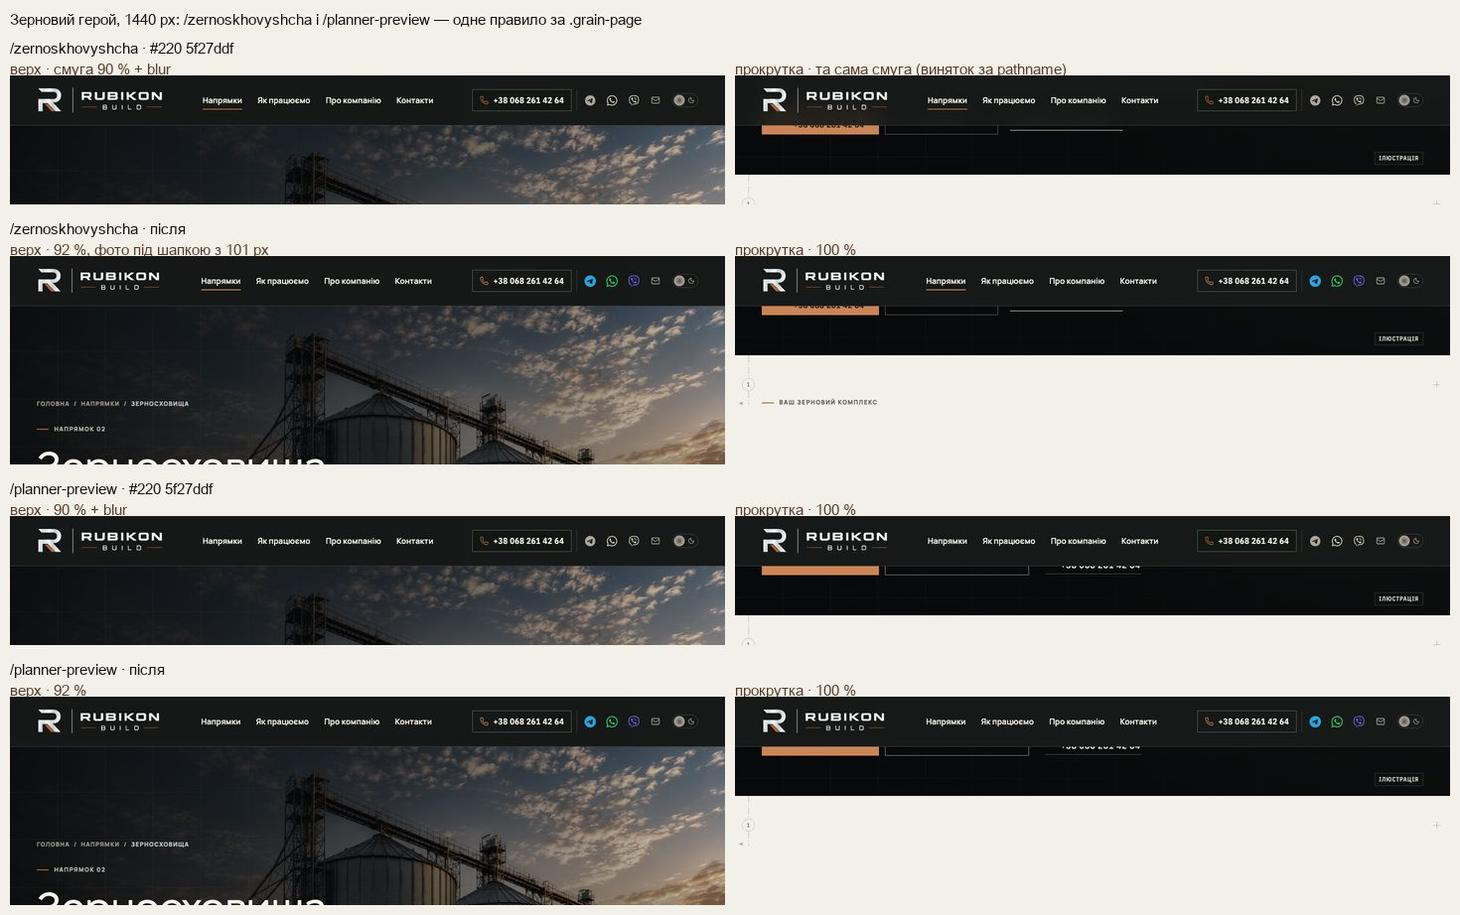
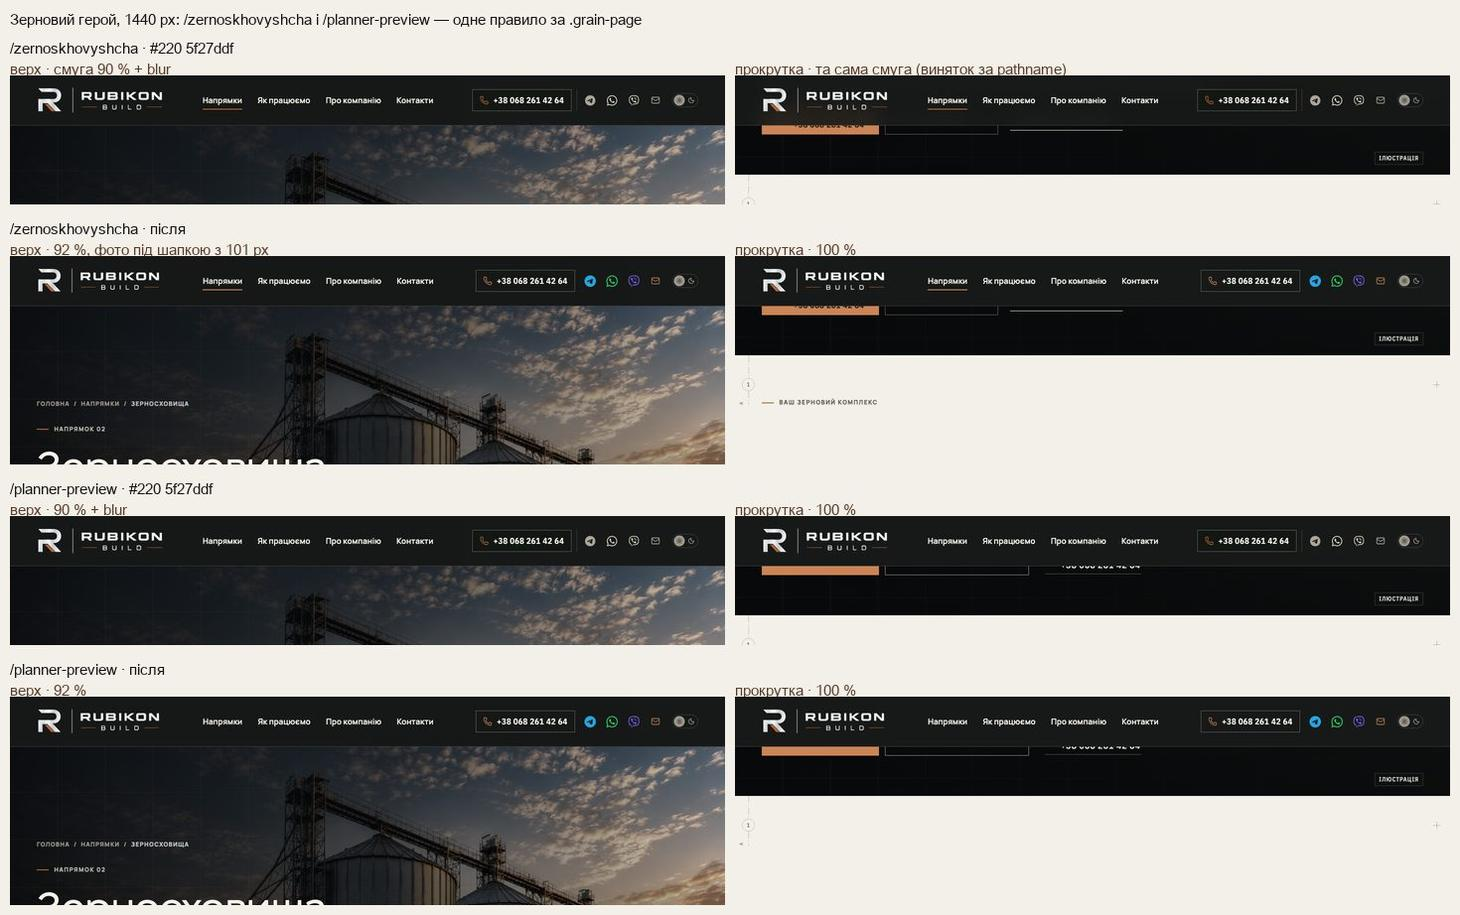
docs(handoffs): шапка — без лінії, мідна пошта, оновлені кадри, факт Main visual

diff --git a/docs/handoffs/2026-10-21-header-balanced.md b/docs/handoffs/2026-10-21-header-balanced.md
@@ -8,7 +8,7 @@
 | Рев'ю | Власник — за спільним прев’ю й кадрами нижче. Незалежне — ChatGPT через GitHub |
 | PR | #220. **Merge, production deploy і нові еталони не виконувались. Вони — лише з окремого OK Дмитра** (DEC-30, DEC-18). Гілка — прототип `design/*` без `visual-freeze`, тож візуальні набори в PR Gate відкладені |
 | Гілка / base | `design/header-first-screen` від `main` `5085ad0` |
-| Коміти | W1-09 (20.10): `7e51bd1` PDO-19 · `6b19846` PDO-57 · `c625a11` PDO-18 · `71e4e5d` PDO-17 · `f0b4729` handoff · `5f27ddf` Sonar S4666. **21.10: `6e693a2` «Збалансована» · `98eb0e9` логотип за ярусами · `b5a63a2` арт героя без смуги** · цей handoff |
+| Коміти | W1-09 (20.10): `7e51bd1` PDO-19 · `6b19846` PDO-57 · `c625a11` PDO-18 · `71e4e5d` PDO-17 · `f0b4729` handoff · `5f27ddf` Sonar S4666. **21.10: `6e693a2` «Збалансована» · `98eb0e9` логотип за ярусами · `b5a63a2` арт героя без смуги · `05d4cb5` без лінії між номером і месенджерами, мідна пошта** · цей handoff |
 | Спільне прев’ю | `preview/wave01e-b-header` = main `5085ad0` + #219 + ця гілка: https://preview-wave01e-b-header-rubikon-build.leusd100.workers.dev/ (Workers Builds, не production) |
 | Змінено 21.10 | `app/globals.css`, `app/home-v2.css`, `app/pro-nas/about.css`, `app/components/HeroHeaderState.tsx`, `app/components/DirectionHeroImage.tsx`, `app/data/directionHeroImageManifest.ts`. Тести: `header-hierarchy.spec.ts`, `header-first-screen.spec.ts`, `header-current-section.spec.ts` |
 | Збережено з W1-09 | PDO-57: `aria-current`, «Напрямки» як розділ на сторінках напрямів. PDO-18: одна модель шапки, фото з y 0. PDO-17: світла мідь головних дій і X-Ray на графіті. Компактна шапка до 1179 px. Навігація Manrope 600. Номер — Plex Condensed 600 |
@@ -22,7 +22,8 @@
 - **Тло над героєм — 92 % `--color-dark` без blur** на кожній ширині й сторінці з героєм: HOME, `/pro-nas`, внутрішні герої від 1100 px, телефони й планшети. Раніше: 72 % (≥761 px) і 82 % (телефони). **Після 32 px прокрутки — 100 %** на всіх ширинах (на телефонах раніше 97 %). Меню відкрите — 97 %. У світлій темі `--color-dark` = #171918, у темній — токен теми #121413.
 - **Номер** — у рамці rgba(245,242,235,.34), світлий текст (Plex Condensed 600, 17 px; 15 px на 1180–1279), мідна піктограма #CC8455. **Без мідної заливки** і в спокої, і на hover / фокусі: тоді мідною стає лише рамка. Заповнена мідь лишається за дзвінком героя.
 - **Месенджери** — оригінальні SVG Telegram / WhatsApp / Viber **без grayscale, saturate і opacity**: у шапці, меню й footer. Іконки 23 px у шапці (21 px на 1180–1279), цілі 44 × 44 (36 / 40 px на вужчих ярусах, як було). `aria-label`, `href` і поведінка Viber не змінені. **Латку під каналами прибрано**: тло для них — сама шапка 92 %.
-- **Email** — сіра іконка #BDB7AC, мідна на hover / фокусі. **Перемикач теми** — тихий трек, сірий кноб (як у W1-09).
+- **Між номером і Telegram лінії немає** (власник 21.10, `05d4cb5`), лишився проміжок 8 px.
+- **Email** — мідна іконка, як до PDO-19 (власник 21.10). Відтінок той самий, що в іконки номера (#CC8455), на hover / фокусі — #DDA27A. **Перемикач теми** — тихий трек, сірий кноб (як у W1-09).
 - **Риска поточного розділу** — світла мідь **#CC8455** (`--color-accent-on-dark`) замість #B76432. `aria-current` не змінено.
 - **Логотип:** 226 px до 1279 px, **250 px від 1280 px**. На 1181 px 250 px лишали 36 px до навігації й 32 px від неї до номера проти 46 і 43 px при 226, тож поблизу 1180 логотип лишився 226.
 - **Телефон** (≤1179 px): угорі логотип, дзвінок і «Меню». Месенджери з підписами TG / WA / VB — у меню, тепер кольорові.
@@ -93,6 +94,8 @@
 |---|---|---|
 | `header-hierarchy`, `header-first-screen`, `header-current-section`, `action-on-graphite`, `company-email`, `first-contact`, `brand-logo-visual` | локальний build `6e693a2`, desktop-chromium + mobile-chromium | 95 passed, 17 skipped |
 | `header-hierarchy` після `98eb0e9` (яруси логотипа) | локальний build, desktop-chromium | 4 / 4 |
+| `header-hierarchy`, `company-email` після `05d4cb5` | локальний build, desktop-chromium + mobile-chromium | 29 passed, 7 skipped |
+| `header-current-section` після `2309584` (чекає наступний слайд і суцільну шапку замість фіксованого часу, SonarCloud S2925) | локальний build, desktop-chromium | 3 / 3 |
 | B + шапка разом: `home-phone-directions`, `home-directions-sheets`, `header-*`, `theme` | локальний build спільного дерева | 57 passed, 29 skipped |
 | Unit (`vitest run`) | гілка | 1436 / 1436 |
 | `tsc`, `eslint .`, `git diff --check` | гілка | чисто |
@@ -103,7 +106,7 @@ Skipped — тести, обмежені проєктом (`test.skip` за `isM
 
 **Тести, оновлені під погоджений дизайн** (функціональні перевірки не послаблено):
 
-- **`header-hierarchy`.** Замість «сірі в спокої, колір на hover» — месенджери кольорові в спокої: >10 % насичених пікселів. Перевіряється й ланцюжок предків: без `filter` і `opacity` < 1, у шапці (HOME і `/metalokonstruktsii`) і у footer. Латки немає (тло прозоре). Іконки 23 px. Новий тест на меню: кольорові іконки й підписи TG / WA / VB. Номер без заливки в спокої й на hover, рамка мідна на hover. Групи й логотип перевіряються на 1180 / 1181 / 1279 / 1280 / 1440 / 1920.
+- **`header-hierarchy`.** Замість «сірі в спокої, колір на hover» — месенджери кольорові в спокої: >10 % насичених пікселів. Перевіряється й ланцюжок предків: без `filter` і `opacity` < 1, у шапці (HOME і `/metalokonstruktsii`) і у footer. Латки немає (тло прозоре). Іконки 23 px. Новий тест на меню: кольорові іконки й підписи TG / WA / VB. Номер без заливки в спокої й на hover, рамка мідна на hover. Іконка пошти мідна (#CC8455), лінії перед месенджерами немає. Групи й логотип перевіряються на 1180 / 1181 / 1279 / 1280 / 1440 / 1920.
 - **`header-first-screen`.** 72 → 92 %. Тест зернового героя тепер покриває `/zernoskhovyshcha` і `/planner-preview`: стан «top», 92 %, без blur, фото з y 101; після прокрутки — «scrolled» і 100 %.
 - **`header-current-section`.** Новий тест: колір риски `rgb(204, 132, 85)` і ≥ 4,5 : 1 до пікселів шапки під нею. Вісім сторінок × світла / темна × верх / прокрутка, `/napryamky` двічі.
 
@@ -111,19 +114,18 @@ Skipped — тести, обмежені проєктом (`test.skip` за `isM
 
 ## Еталони (DEC-18)
 
-Не оновлювались. Зміни очікуються там, де в кадр потрапляє шапка або месенджери:
+Не оновлювались. Main visual на `530dc89` (run 39594091298) впав лише на двох цілях. Решта знімків, де в кадрі шапка або месенджери, — у межах допуску. Рендери однакові байт-у-байт у трьох спробах; expected збігається з файлом у репозиторії.
 
-- герої HOME;
-- `header-logo-desktop-1181` (256 → 226 px) і `header-logo-desktop-1440` (256 → 250 px, темніше тло);
-- `footer-logo-*`, якщо в кадрі месенджери;
-- `grain-planner-desktop-*` (шапка в кадрі).
+- `header-logo-desktop-1181`: логотип 256 → 226 px (яруси, `98eb0e9`).
+- `header-logo-desktop-1440`: 256 → 250 px, під логотипом тло шапки 92 %.
 
-Точний список і рендери CI покажемо окремо, PNG — лише після OK.
+Результат на фінальному head (після `05d4cb5`) — у коментарі PR. PNG — лише після OK.
 
 ## Відкат
 
 - `git revert b5a63a2` — без маски, з видимою межею.
 - `git revert 98eb0e9` — логотип 250 px від 1181.
+- `git revert 05d4cb5` — повертає лінію й сіру іконку пошти.
 - `git revert 6e693a2` — повертає W1-09: 72 %, сірі месенджери, #B76432, виняток за pathname. Тести W1-09 повертаються тим самим revert.
 
 ## Залишкові питання
